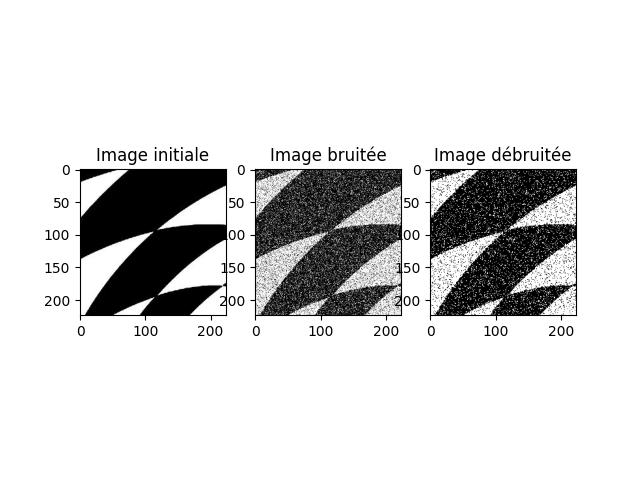
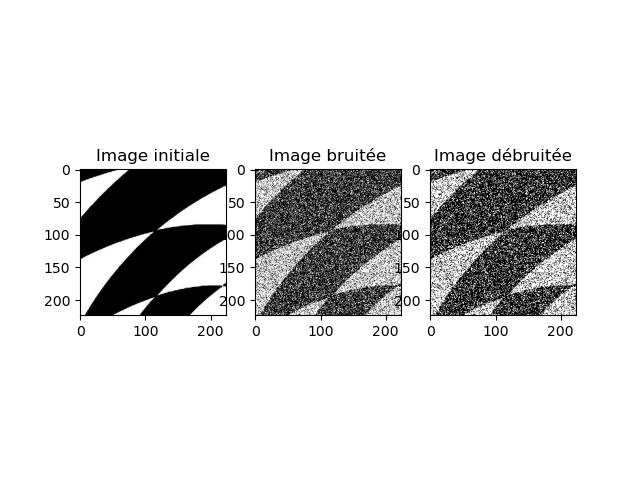
gif

Changed region(s): [[0.3438, 0.3125, 0.9062, 0.7188], [0.1562, 0.3125, 0.3438, 0.3438]]

diff --git a/src/sampler.py b/src/sampler.py
@@ -3,8 +3,9 @@ from abc import ABC, abstractmethod
 
 import numpy as np
 from tqdm import tqdm
+import matplotlib.pyplot as plt
 
-from .utils import CliqueSum
+from src.utils import CliqueSum
 
 
 class Sampler(ABC):
@@ -30,13 +31,14 @@ class Sampler(ABC):
         :type img: np.ndarray
         :return: The probability of the pixel being black or white.
         """
+
         probas = [
             np.exp(self.U(0, pixel, img) - (img[pixel] ** 2) / (2 * self.sigma)),
             np.exp(
                 self.U(255, pixel, img) - ((img[pixel] - 255) ** 2) / (2 * self.sigma)
             ),
         ]
-        return probas / np.sum(probas) if probas != [0, 0] else [0, 0]
+        return probas / np.sum(probas)
 
     @abstractmethod
     def sample(self, img: np.ndarray) -> np.ndarray:
@@ -69,7 +71,7 @@ class GibbsSampler(Sampler):
             new_value=new_value, ind_pixel=ind_pixel, img=img
         )
 
-    def sample(self, img: np.ndarray) -> np.ndarray:
+    def sample(self, img: np.ndarray, gif: bool = False) -> np.ndarray:
 
         """
         We start with a random image, and then we iterate over all the pixels, and for each pixel we
@@ -87,14 +89,21 @@ class GibbsSampler(Sampler):
         L, W = img.shape
         X = img.copy()
 
+        if gif:
+            i: int = 0
+            plt.imsave(f"data/output/gif/{i}.png", X, cmap="gray")
+            i += 1
         with tqdm(total=self.burn_in * L * W, desc="Burn in", ascii="░▒█") as bbar:
             for _ in range(self.burn_in):
                 for l, w in itertools.product(range(L), range(W)):
                     probas = self.getProbas(pixel=(l, w), img=X)
                     X[l, w] = np.random.choice((0, 255), 1, p=probas)
                     bbar.update(1)
+                if gif:
+                    plt.imsave(f"data/output/gif/{i}.png", X, cmap="gray")
+                    i += 1
 
-        avg = np.zeros_like(img).astype(np.uint32)
+        avg = np.zeros_like(img).astype(np.uint64)
         with tqdm(total=self.n_samples * L * W, desc="Sampling", ascii="░▒█") as pbar:
             for _ in range(self.n_samples):
                 for l, w in itertools.product(range(L), range(W)):
@@ -102,11 +111,12 @@ class GibbsSampler(Sampler):
                     X[l, w] = np.random.choice((0, 255), 1, p=probas)
                     avg += X
                     pbar.update(1)
+                if gif:
+                    plt.imsave(f"data/output/gif/{i}.png", X, cmap="gray")
+                    i += 1
 
         avg = avg.astype(float)
-        print(avg)
         avg = avg / (L * W * self.n_samples)
-        print(avg)
         avg[avg >= 255.0 / 2] = 255
         avg[avg < 255.0 / 2] = 0
         avg = avg.astype(np.uint8)

diff --git a/main.py b/main.py
@@ -1,4 +1,7 @@
 import argparse
+import os
+import imageio
+
 
 from src.denoiser import denoise
 
@@ -13,9 +16,10 @@ def main():
         default="data/input/test_img.jpeg",
         help="Path of the image to noise",
     )
-    parser.add_argument("--alpha", type=float, default=0.01, help="alpha")
-    parser.add_argument("--beta", type=float, default=10, help="beta")
-    parser.add_argument("--sigma", type=float, default=120, help="sigma")
+    parser.add_argument("--alpha", type=float, default=0.0, help="alpha")
+    parser.add_argument("--beta", type=float, default=0.03, help="beta")
+    parser.add_argument("--sigma", type=float, default=179, help="sigma")
+    parser.add_argument("--g", type=bool, default=True, help="Save for gif")
 
     args = parser.parse_args()
 
@@ -26,7 +30,18 @@ def main():
         n_samples=args.ns,
         sigma=args.sigma,
         imPath=args.imp,
+        gif=args.g,
     )
+
+    if args.g:
+        filenames = [el for el in os.listdir("data/output/gif") if el.endswith("png")]
+        images = [
+            imageio.imread(f"data/output/gif/{filename}") for filename in filenames
+        ]
+
+        imageio.mimsave("data/output/denoise.gif", images)
+        for filename in filenames:
+            os.remove(f"data/output/gif/{filename}")
 
 
 if __name__ == "__main__":

diff --git a/src/denoiser.py b/src/denoiser.py
@@ -5,7 +5,13 @@ from src.sampler import GibbsSampler
 
 
 def denoise(
-    alpha: float, beta: float, burn_in: int, n_samples: int, sigma: float, imPath: str
+    alpha: float,
+    beta: float,
+    burn_in: int,
+    n_samples: int,
+    sigma: float,
+    imPath: str,
+    gif: bool = False,
 ):
 
     gs = GibbsSampler(alpha, beta, sigma, burn_in=burn_in, n_samples=n_samples)
@@ -13,7 +19,7 @@ def denoise(
     # Loading of images
     noised_img = Noiser(sigma).noise_img(imPath=imPath)[:224, :224]
     true_image = plt.imread(imPath)[:224, :224]
-    denoised = gs.sample(noised_img)
+    denoised = gs.sample(noised_img, gif=gif)
 
     # Plotting...
     fig, (ax1, ax2, ax3) = plt.subplots(1, 3)

diff --git a/src/noiser.py b/src/noiser.py
@@ -1,7 +1,8 @@
 import cv2
 import numpy as np
+import matplotlib.pyplot as plt
 
-from .utils import rgb2gray
+from src.utils import rgb2gray
 
 
 class Noiser:
@@ -21,5 +22,4 @@ class Noiser:
         gray_img = rgb2gray(img)
         im = np.zeros(gray_img.shape, float)
         noise = cv2.randn(im, (0), (self.s))
-
-        return cv2.add(noise, gray_img, dtype=0)
+        return cv2.add(noise, gray_img, dtype=cv2.CV_8U)
